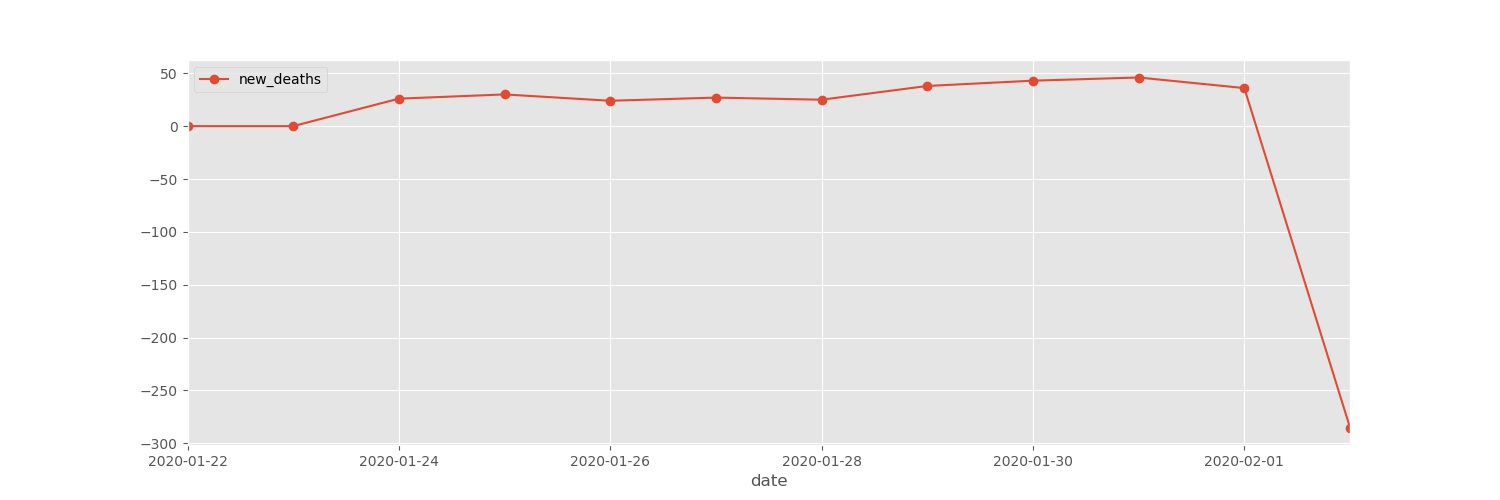
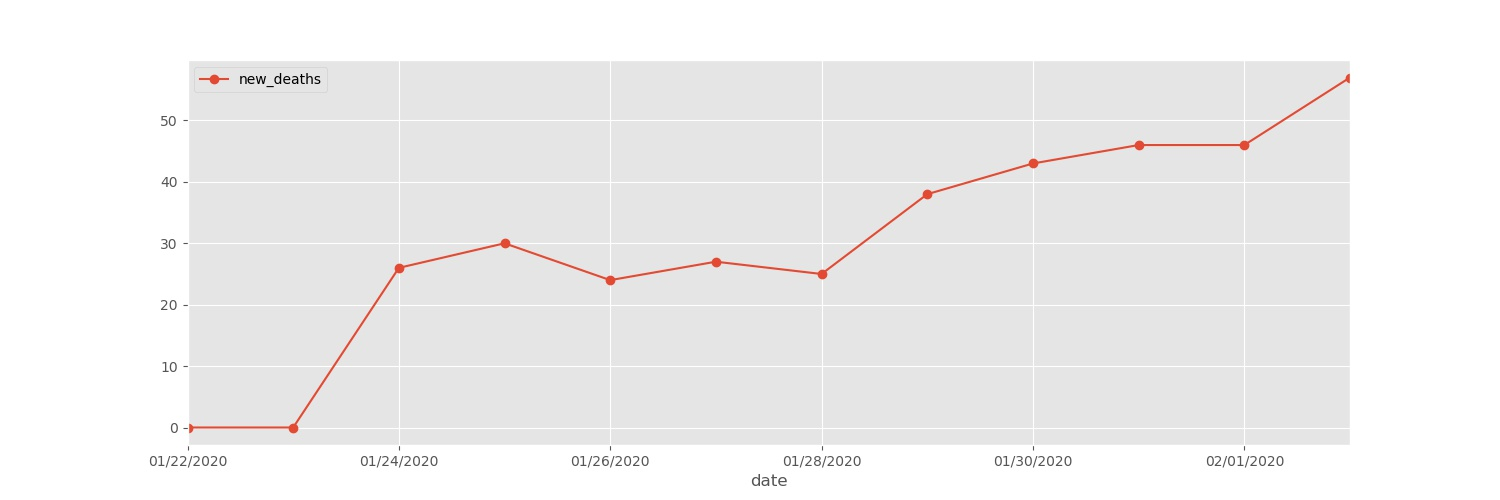
UDPATE - New Report for the 3rd of feb

diff --git a/README.md b/README.md
@@ -19,9 +19,7 @@ This repo is for analysis on the [corona virus](https://www.who.int/health-topic
 
 This plots will be updated <u>daily</u> to visualize the trend in aggregated sums and the daily counts for 3 attributes: **<i>Confirmed Cases, Deaths and Recoveries.</i>**
 
-**ISSUES:** Data contains incorrect `Last Update` date, need to parse the from the sheet names - Will fix soon!
-
-Last updated:  `2020-02-02`
+Last updated:  `2020-02-03`
 
 **Confirmed Cases**
 
